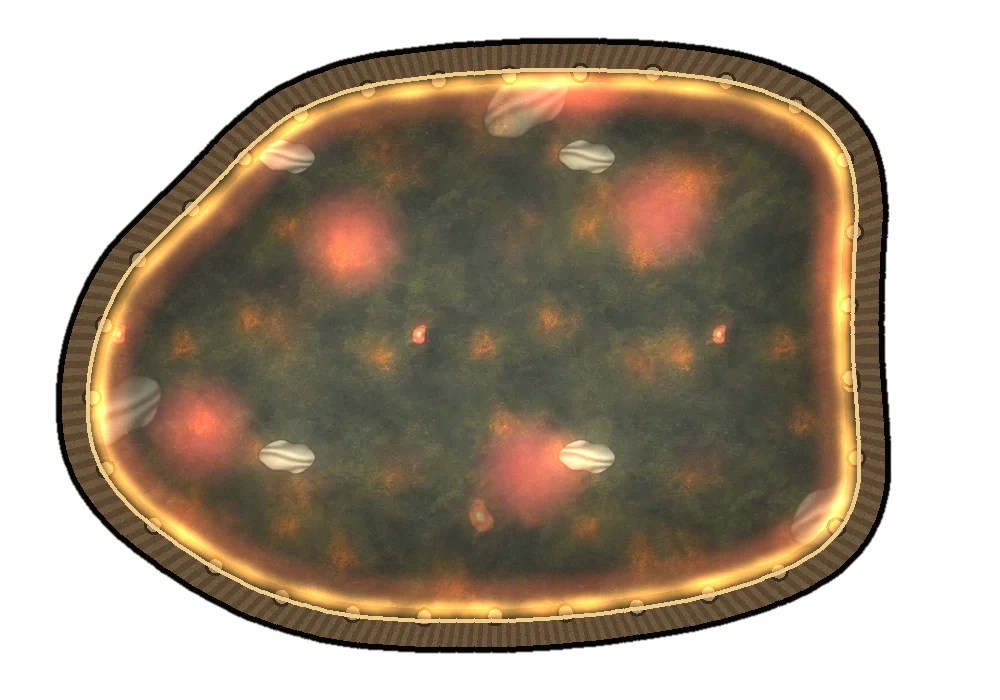
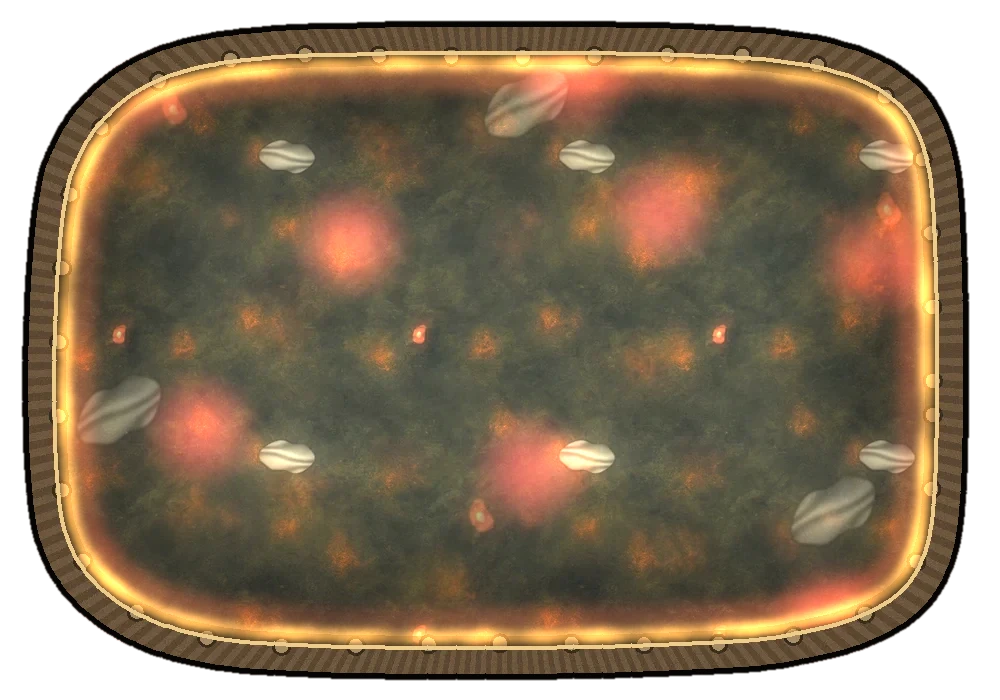
g_cl_lac v4 : lac plus grand, contour x 14,41-33,38 z 12,39-25,6 (env. 19 x 13,2 m, quai à 0,4-0,6 m du rectangle LAKE inchangé), style v3 ; g_cl_lac.json (polygone_monde_m à reporter dans LAC_POLY) et CHINA_LAKE_POSITIONS.md mis à jour

diff --git a/tools_chinalake.py b/tools_chinalake.py
@@ -269,11 +269,13 @@ def unneon_implants():
 # (bande 0,6 m), pilotis ronds sous le quai, reflets des lanternes repris de china_lake.js. Hors contour : transparent (sol du quartier).
 LAKE = (14.0, 12.0, 20.0, 14.0)
 LANT = [[16.5, 13.4], [21, 16.8], [25.5, 13.6], [31.5, 17.2], [18, 20.6], [24.6, 21.4], [30.6, 24.4], [15.6, 24.8], [27.2, 16.2]]
-def lac_poly(n=28):
-    x0, z0, w, d = LAKE; cx, cz, rx, rz = x0 + w / 2, z0 + d / 2, w / 2 - 0.25, d / 2 - 0.25
+# v4 (retours tour 2, lac trop petit) : marge 0,3 m, irrégularités plus douces, superellipse 3,6 : le quai suit le rectangle à 0,3-0,9 m.
+def lac_poly(n=28, v=4):
+    x0, z0, w, d = LAKE; mg = 0.3 if v >= 4 else 0.25; cx, cz, rx, rz = x0 + w / 2, z0 + d / 2, w / 2 - mg, d / 2 - mg
     t = np.linspace(0, 2 * np.pi, n, endpoint=False)
-    f = 1 - 0.10 * (1 + np.sin(2 * t + 0.7)) / 2 - 0.09 * (1 + np.sin(3 * t + 2.1)) / 2 - 0.05 * (1 + np.cos(5 * t + 0.4)) / 2
-    c, s = np.cos(t), np.sin(t); e = 2.6  # superellipse arrondie : remplit le rectangle sans angles
+    A = (0.10, 0.09, 0.05) if v < 4 else (0.012, 0.012, 0.012)
+    f = 1 - A[0] * (1 + np.sin(2 * t + 0.7)) / 2 - A[1] * (1 + np.sin(3 * t + 2.1)) / 2 - A[2] * (1 + np.cos(5 * t + 0.4)) / 2
+    c, s = np.cos(t), np.sin(t); e = 2.6 if v < 4 else 4.2  # superellipse arrondie : remplit le rectangle sans angles
     px = cx + rx * f * np.sign(c) * np.abs(c) ** (2 / e); pz = cz + rz * f * np.sign(s) * np.abs(s) ** (2 / e)
     return [[round(float(a), 2), round(float(b), 2)] for a, b in zip(px, pz)]
 def build_lac():

diff --git a/docs/villes/steel/quartiers/CHINA_LAKE_POSITIONS.md b/docs/villes/steel/quartiers/CHINA_LAKE_POSITIONS.md
@@ -8,6 +8,11 @@ Eau (main 7de0a94) : lac irrégulier `g_cl_lac` (1000 x 700 px, 50 px/m) posé s
 
 Lanternes flottantes (9, `ground.water[0].lanterns`) : (19,5 ; 15,6), (21 ; 16,8), (25,5 ; 13,6), (30,2 ; 17,5), (18 ; 20,6), (24,6 ; 21,4), (28,7 ; 22,9), (18,7 ; 22,6), (27,2 ; 16,2). Déplacées hors du quai : (16,5 ; 13,4) vers (19,5 ; 15,6), (31,5 ; 17,2) vers (30,2 ; 17,5), (30,6 ; 24,4) vers (28,7 ; 22,9), (15,6 ; 24,8) vers (18,7 ; 22,6).
 
+Lac v4 (retours tour 2, branche creation/retours-tour2, à intégrer) : même fichier, même taille, même rectangle LAKE (x 14-34, z 12-26, inchangé). Nouveau contour, plus grand : bord extérieur du quai à 0,4-0,6 m du rectangle sur les côtés, coins arrondis (jusqu à 1,7 m au coin) ; emprise du contour x 14,41-33,38, z 12,39-25,6 (environ 19 x 13,2 m, contre 16,7 x 12,3 m en v3). `LAC_POLY` à remplacer par `polygone_monde_m` de g_cl_lac.json :
+(33,38 ; 19,0), (33,33 ; 22,19), (33,07 ; 23,43), (32,51 ; 24,28), (31,62 ; 24,86), (30,38 ; 25,24), (28,65 ; 25,49), (24,0 ; 25,6), (19,32 ; 25,54), (17,58 ; 25,28), (16,41 ; 24,84), (15,54 ; 24,24), (14,9 ; 23,44), (14,5 ; 22,25), (14,41 ; 19,0), (14,62 ; 15,79), (15,06 ; 14,64), (15,66 ; 13,83), (16,46 ; 13,2), (17,6 ; 12,74), (19,32 ; 12,47), (24,0 ; 12,39), (28,68 ; 12,47), (30,46 ; 12,68), (31,7 ; 13,08), (32,55 ; 13,7), (33,05 ; 14,59), (33,3 ; 15,82)
+
+Vérification (EAU_POLY = contour rétréci de 0,6 m) : aucun PNJ ni stand dans l eau. Les 9 lanternes actuelles restent dans l eau ; les positions d origine (31,5 ; 17,2) et (30,6 ; 24,4) y retombent aussi et peuvent être reprises, (16,5 ; 13,4) et (15,6 ; 24,8) restent sur le quai. Dans l eau, comme voulu : câbles cl_cable1 / cl_cable2, ballons, déchets flottants.
+
 Quai nord (7de0a94) : les quatre étals passent de z 10,6 à z 11, contre l eau ; marchande d implants en (19 ; 11,5) entre les étals implants et puces, regard vers (19 ; 9) ; passage nord libre sur 2,5 m.
 
 ## Bâtiments et stands
